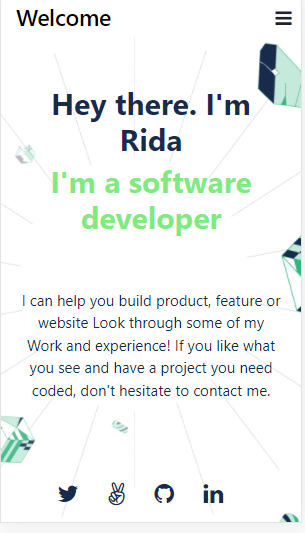
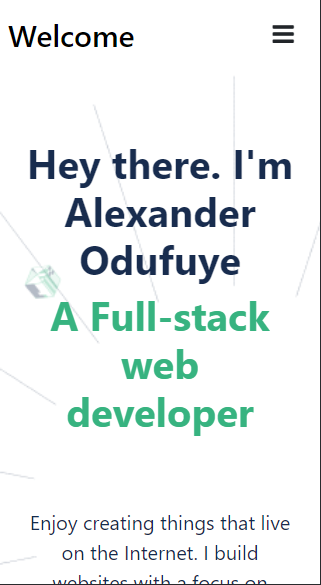
updating project

diff --git a/README.md b/README.md
@@ -17,7 +17,7 @@
 
 ## Live Demo
 
-[Live Demo Link](https://ridaarif98.github.io/NewPortfolio/)
+[Live Demo Link]()
 
 
 
@@ -41,9 +41,9 @@
 
 ## 👤 Author
 
-- GitHub: [@githubhandle](https://github.com/ridaarif98)
-- Twitter: [@twitterhandle](https://twitter.com/Rida29984906)
-- LinkedIn: [LinkedIn](https://www.linkedin.com/in/rida-arif-90945520b/)
+- GitHub: [@githubhandle](https://github.com/alexander16108)
+- Twitter: [@twitterhandle](https://twitter.com/alexander-mayowa)
+- LinkedIn: [LinkedIn](https://www.linkedin.com/in/codingrex/)
 
 
 ## Acknowledgments
@@ -55,7 +55,7 @@
 
 Contributions, issues, and feature requests are welcome!
 
-Feel free to check the [issues page](https://github.com/ridaarif98/NewPortfolio/issues).
+Feel free to check the [issues page](https://github.com/alexander16108/Portfolio/issues).
 
 
 
